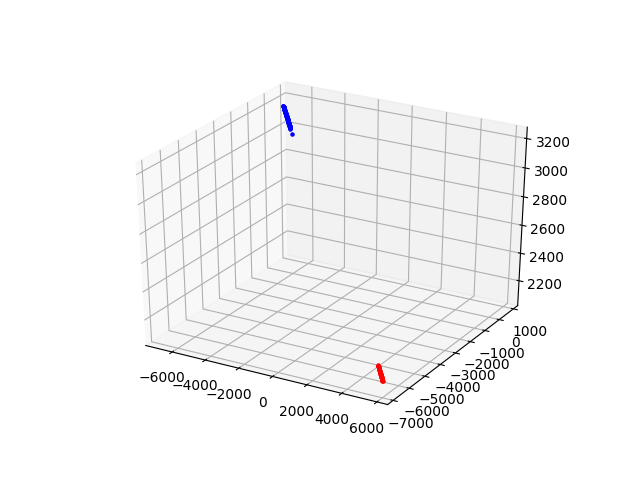
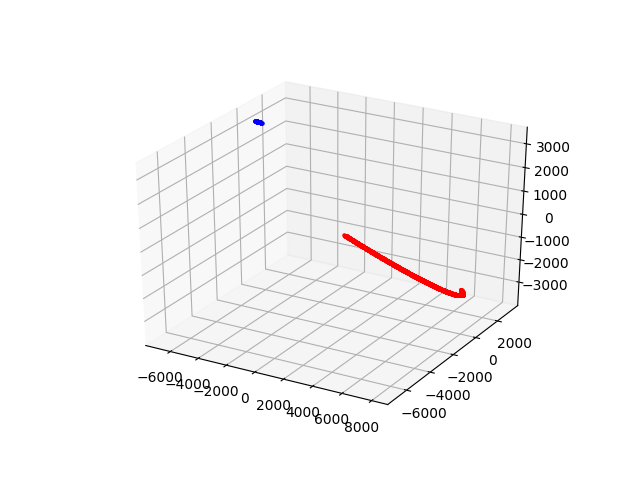
added new laser parameters

Changed region(s): [[0.2188, 0.1875, 0.9062, 0.875], [0.5312, 0.6562, 0.8438, 0.9062]]

diff --git a/orbit_simulation.py b/orbit_simulation.py
@@ -41,7 +41,7 @@ fig = plt.figure()
 ax = fig.add_subplot(111, projection='3d')
 
 col = 'blue'
-simulation_time = 100
+simulation_time = 2000
 
 
 laser = Laser(19.562170632009686 , -130.47357933714184, 1, 1, 1, 100*10**(-6), 1)
@@ -60,7 +60,7 @@ for i in range(simulation_time):
 
     d = laser.sat_distance(TEST)
 
-    #print("Distance from laser to satellite:", d, "\n Height:", TEST.calc_height()[1])
+    print("Distance from laser to satellite:", d, "\n Height:", TEST.calc_height()[1])
 
     ax.scatter(TEST.x, TEST.y, TEST.z, s=20, c=col, marker='.')
 
